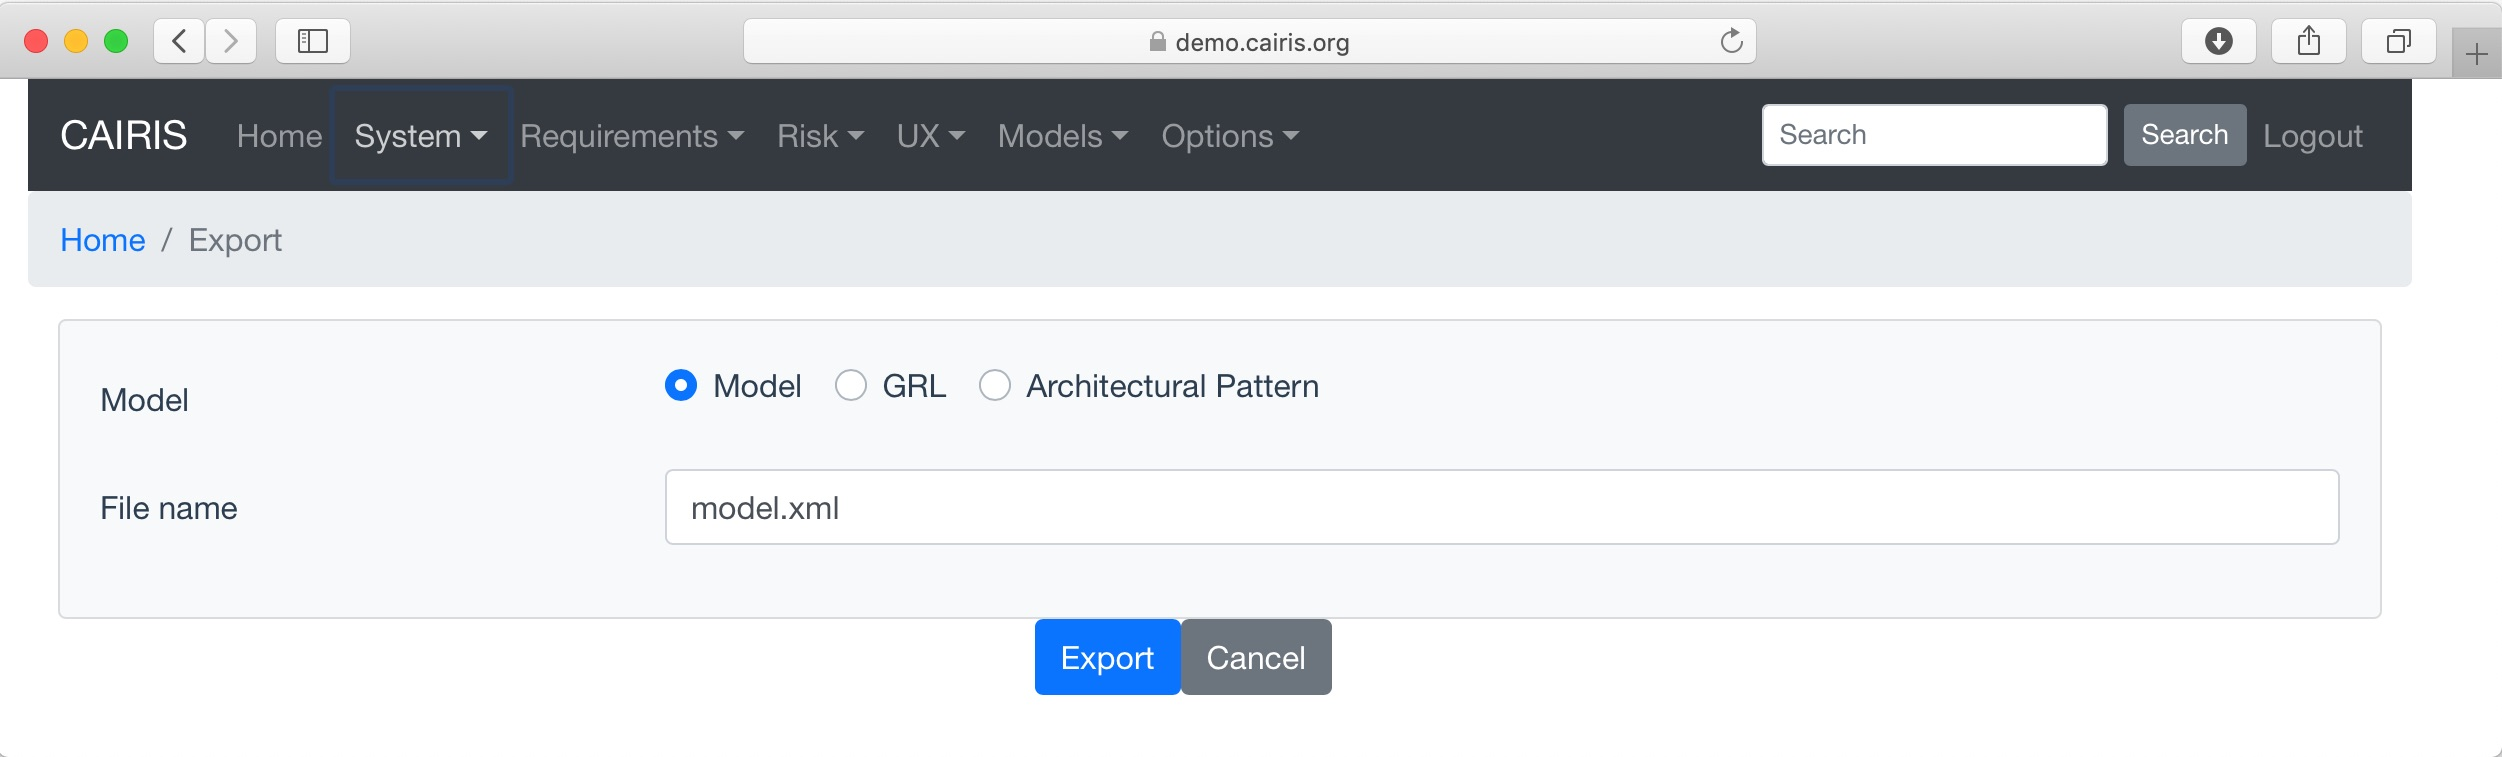
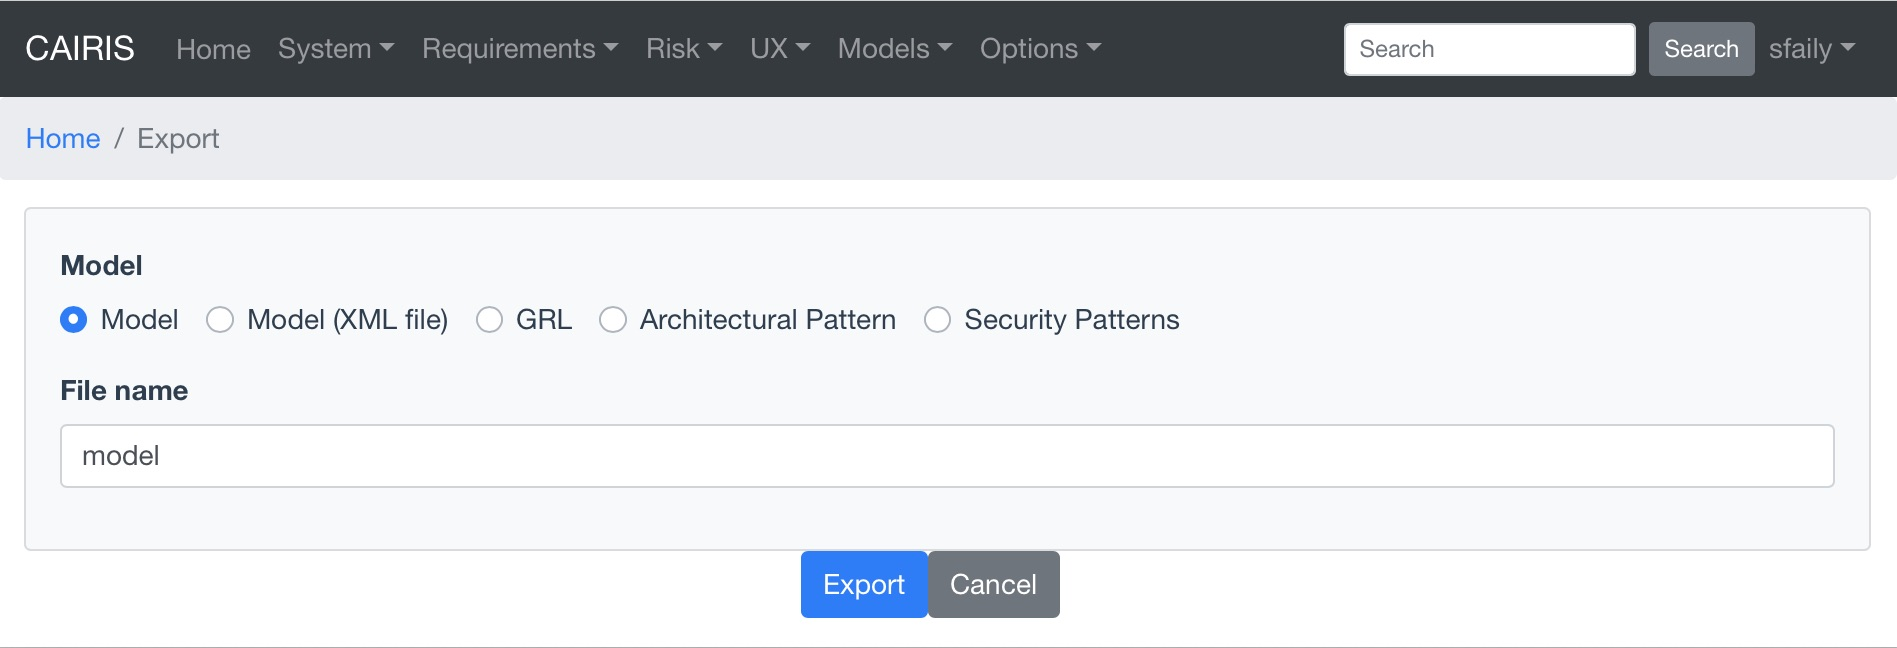
Fix #437

diff --git a/cairis/bin/cexport.py b/cairis/bin/cexport.py
@@ -26,7 +26,7 @@ def main(args=None):
   parser.add_argument('outputFile',help='output file name')
   parser.add_argument('--user',dest='userName',help='user name', default='cairis_test')
   parser.add_argument('--database',dest='dbName',help='database name',default='cairis_test')
-  parser.add_argument('--type',dest='modelFormat',help='model type to export.  One of all, requirements, scenarios, usecases, architecture, attackpatterns or GRL')
+  parser.add_argument('--type',dest='modelFormat',help='model type to export.  One of all, requirements, scenarios, usecases, architecture, attackpatterns, securitypatterns or GRL')
   parser.add_argument('--persona',nargs='+',help='Persona name or ALL (relevant for GRL export only)')
   parser.add_argument('--task',nargs='+',help='Task name or ALL (relevant for GRL export only)')
   parser.add_argument('--environment',dest='envName',help='Environment name (relevant for GRL export only)')
@@ -35,7 +35,7 @@ def main(args=None):
   file_export(args.modelFormat,args.outputFile,args.persona,args.task,args.envName)
 
 def file_export(modelFormat = 'all', outputFile = None, persona = None, task = None, envName = None, session_id = None):
-  from cairis.mio.ModelExport import exportModel,exportRedmineScenarios,exportRedmineRequirements,exportRedmineUseCases,exportArchitecture,exportAttackPatterns,exportGRL
+  from cairis.mio.ModelExport import exportModel,exportRedmineScenarios,exportRedmineRequirements,exportRedmineUseCases,exportArchitecture,exportAttackPatterns,exportGRL,exportSecurityPatterns
   msgStr = ''
   if (modelFormat == 'all'):
     msgStr += exportModel(outputFile,session_id)
@@ -49,6 +49,8 @@ def file_export(modelFormat = 'all', outputFile = None, persona = None, task = N
     msgStr += exportArchitecture(outputFile,session_id)
   elif (modelFormat == 'attackpatterns'):
     msgStr += exportAttackPatterns(outputFile,session_id)
+  elif (modelFormat == 'securitypatterns'):
+    msgStr += exportSecurityPatterns(outputFile,session_id)
   elif (modelFormat == 'GRL'):
     personaNames = []
     personaNames.extend(persona)

diff --git a/cairis/daemon/main/views.py b/cairis/daemon/main/views.py
@@ -353,6 +353,7 @@ api.add_resource(GoalController.GoalAssociationByNameAPI, '/api/goals/associatio
 # Export route
 api.add_resource(CExportController.CExportFileAPI, '/api/export/file',endpoint='export')
 api.add_resource(CExportController.CExportArchitecturalPatternAPI, '/api/export/file/architectural_pattern/<path:architectural_pattern_name>',endpoint='exportarchitecturalpattern')
+api.add_resource(CExportController.CExportSecurityPatternsAPI, '/api/export/file/security_patterns',endpoint='exportsecuritypatterns')
 api.add_resource(CExportController.CExportGRLAPI, '/api/export/file/grl/task/<path:task_name>/persona/<path:persona_name>/environment/<path:environment_name>',endpoint='exportgrl')
 
 # Find route

diff --git a/cairis/controllers/CExportController.py b/cairis/controllers/CExportController.py
@@ -82,3 +82,16 @@ class CExportGRLAPI(Resource):
     resp.headers["Content-Type"] = 'application/grl'
     resp.headers["Content-Disposition"] = 'Attachment; filename=' + fileName
     return resp
+
+class CExportSecurityPatternsAPI(Resource):
+
+  def get(self):
+    session_id = get_session_id(session, request)
+    fileName = request.args.get('filename', 'security_patterns.xml')
+    dao = ExportDAO(session_id)
+    modelBuf = dao.security_patterns_export()
+    dao.close()
+    resp = make_response(modelBuf)
+    resp.headers["Content-Type"] = 'application/xml'
+    resp.headers["Content-Disposition"] = 'Attachment; filename=' + fileName
+    return resp

diff --git a/cairis/mio/ModelExport.py b/cairis/mio/ModelExport.py
@@ -177,6 +177,14 @@ def exportGRL(outFileName,personaNames,taskNames,envName,session_id = None):
   rFile.close()
   return 'Exported GRL for ' + str(pStr) + ' in tasks ' + str(tStr) + ' situated in environment ' + envName
 
+def exportSecurityPatterns(outFileName,session_id = None):
+  b = Borg()
+  buf = b.get_dbproxy(session_id).securityPatternsToXml()
+  rFile = open(outFileName,'w')
+  rFile.write(buf)
+  rFile.close()
+  return 'Exported security patterns'
+
 def buildComponentModel(p,apName,graphName):
   from cairis.gui.componentxdot import ComponentXDotParser
   from cairis.gui.ComponentModel import ComponentModel

diff --git a/cairis/data/ExportDAO.py b/cairis/data/ExportDAO.py
@@ -76,6 +76,13 @@ class ExportDAO(CairisDAO):
       self.close()
       raise ARMHTTPError(ex)
 
+  def security_patterns_export(self):
+    try:
+      return self.db_proxy.securityPatternsToXml();
+    except DatabaseProxyException as ex:
+      self.close()
+      raise ARMHTTPError(ex)
+
   def grl_export(self,taskName,personaName,envName):
     try:
       return self.db_proxy.pcToGrl(personaName,taskName,envName);

diff --git a/cairis/core/MySQLDatabaseProxy.py b/cairis/core/MySQLDatabaseProxy.py
@@ -4809,3 +4809,6 @@ class MySQLDatabaseProxy:
         self.addTemplateAsset(tap)
     for sp in spps:
       self.addSecurityPattern(sp)
+
+  def securityPatternsToXml(self):
+    return self.responseList('call patternsToXml()',{},'MySQL error exporting security patterns to XML')[0]

diff --git a/docs/io.rst b/docs/io.rst
@@ -51,7 +51,7 @@ Exporting models
    :alt: export model form
 
 To export a model, select the System / Export Model option.  Exporting the current model renders the current CAIRIS database you are working with as a CAIRIS XML model (conforming to cairis_model.dtd).
-You can also export a selected architectural pattern, or a GRL model for a selected environment and task; this GRL can be imported into jUCMNav.
+You can also export a selected architectural pattern, the security patterns currently loaded into CAIRIS, or a GRL model for a selected environment and task; this GRL can be imported into jUCMNav.
 
 Like cimport.py, there is also a command line export script - cexport.py
  
